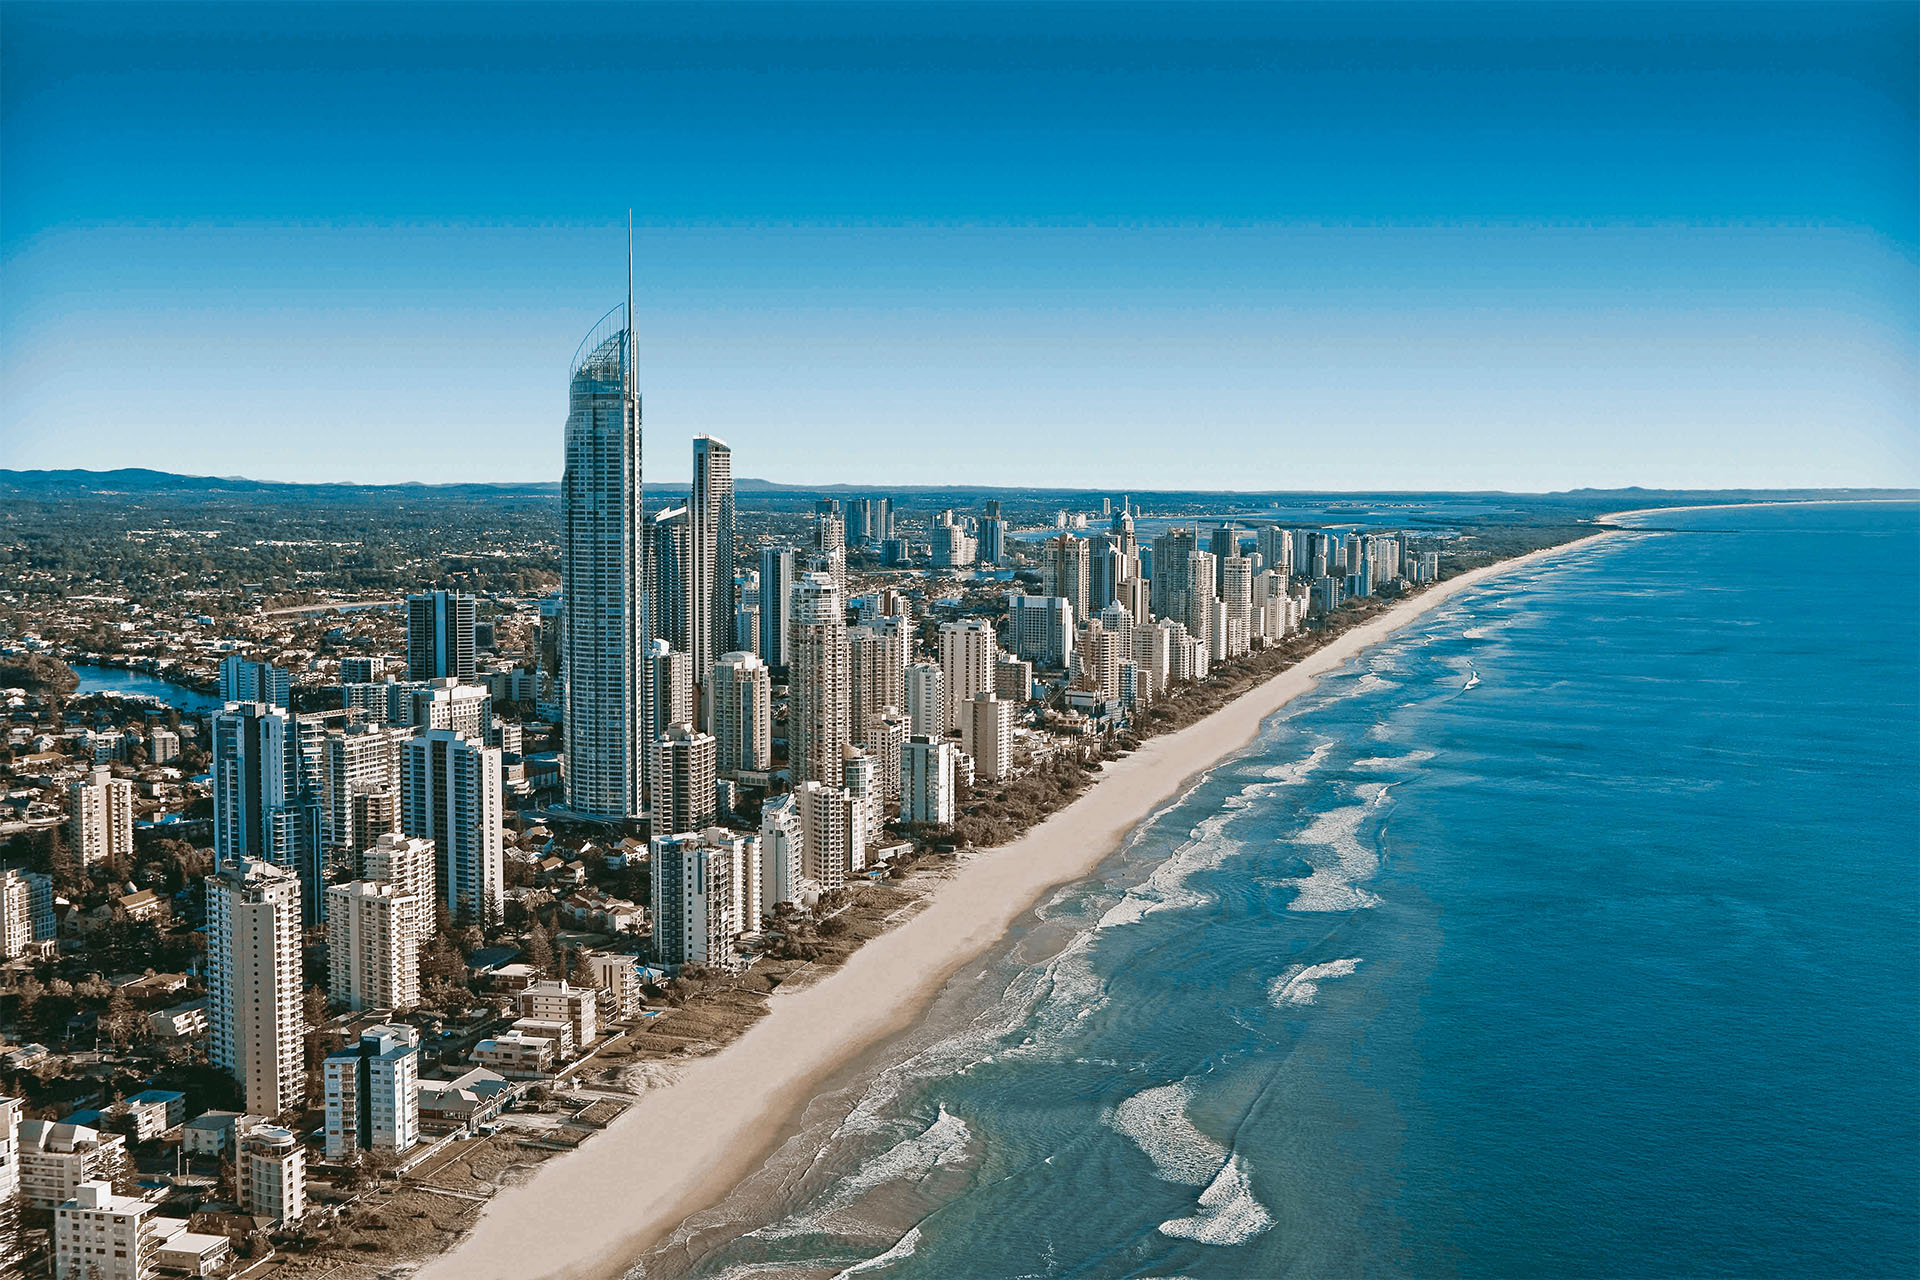
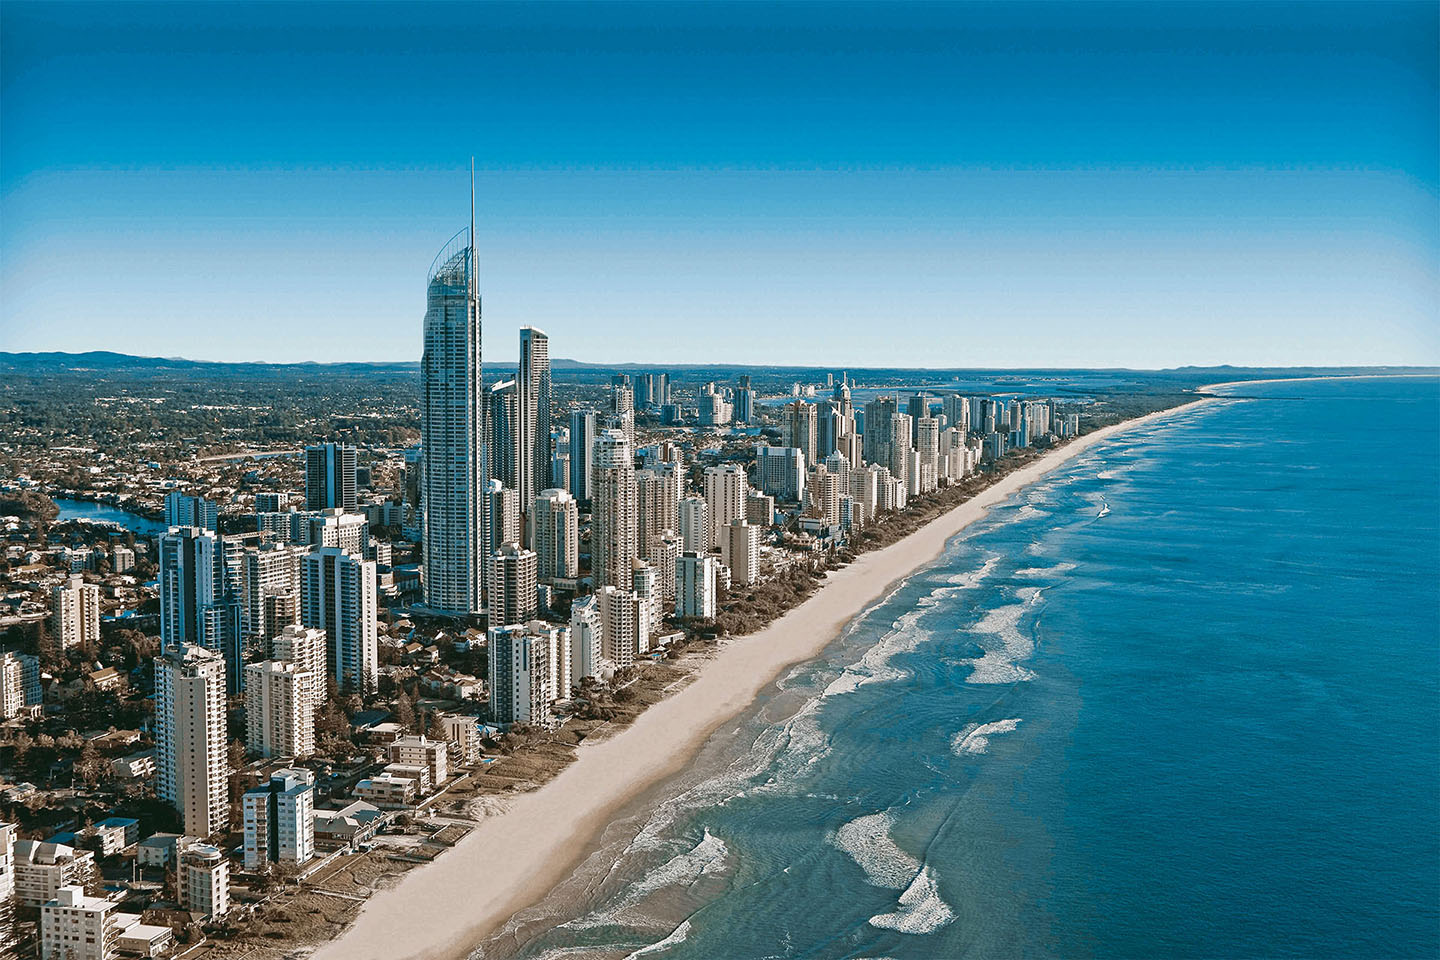
Reduced background image resolution to 1440x960 to further reduce initial loading time

diff --git a/styles/style.css b/styles/style.css
@@ -217,10 +217,16 @@ p.project-description{
 	font-family: 'Roboto Slab', serif;
 	padding-top:120px;
 	padding-bottom: 130px;
+	background:-webkit-linear-gradient(rgba(0,0,0,.7), rgba(0,0,0,.7)), url('media/carl1920x1280.jpg') top center no-repeat;
+	background:-o-linear-gradient(rgba(0,0,0,.7), rgba(0,0,0,.7)), url('media/carl1920x1280.jpg') top center no-repeat;
+	background:-moz-linear-gradient(rgba(0,0,0,.7), rgba(0,0,0,.7)), url('media/carl1920x1280.jpg') top center no-repeat;
+	background:linear-gradient(rgba(0,0,0,.7), rgba(0,0,0,.7)), url('media/breather1920x1280.jpg') center center no-repeat;
+	/*
 	background:-webkit-linear-gradient(rgba(0,0,0,.7), rgba(0,0,0,.7)), url('media/carl1920x1280.jpg') bottom center no-repeat;
 	background:-o-linear-gradient(rgba(0,0,0,.7), rgba(0,0,0,.7)), url('media/carl1920x1280.jpg') bottom center no-repeat;
 	background:-moz-linear-gradient(rgba(0,0,0,.7), rgba(0,0,0,.7)), url('media/carl1920x1280.jpg') bottom center no-repeat;
 	background:linear-gradient(rgba(0,0,0,.7), rgba(0,0,0,.7)), url('media/carl1920x1280.jpg') bottom center no-repeat;
+	*/
 	background-size: cover;
 }
 
